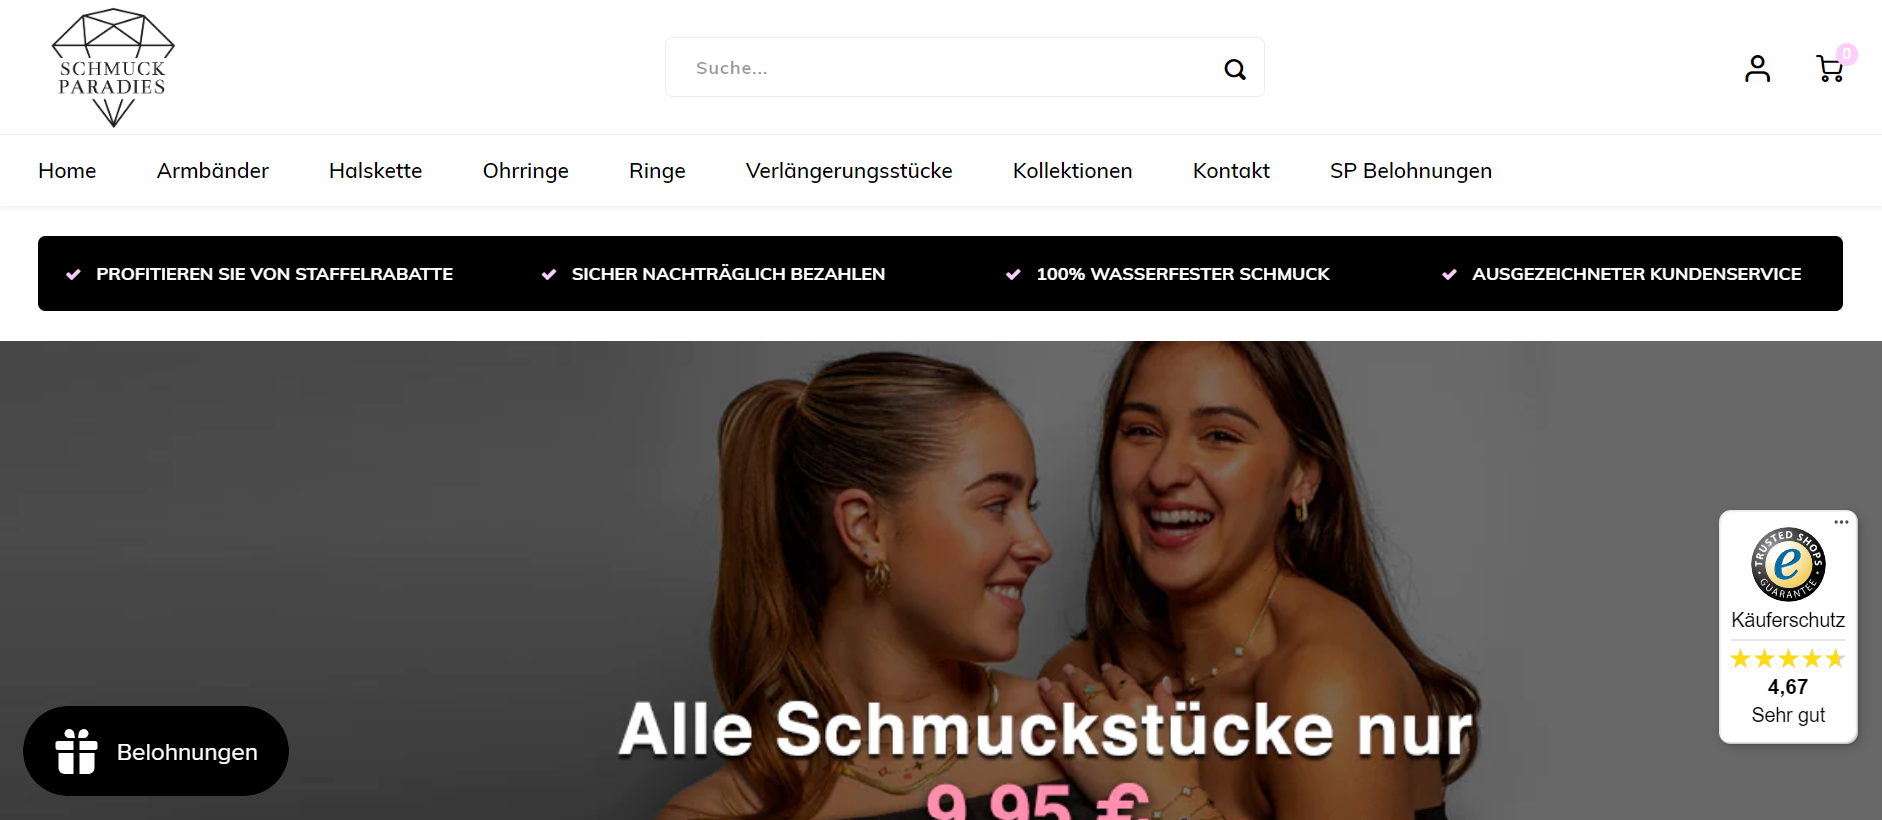
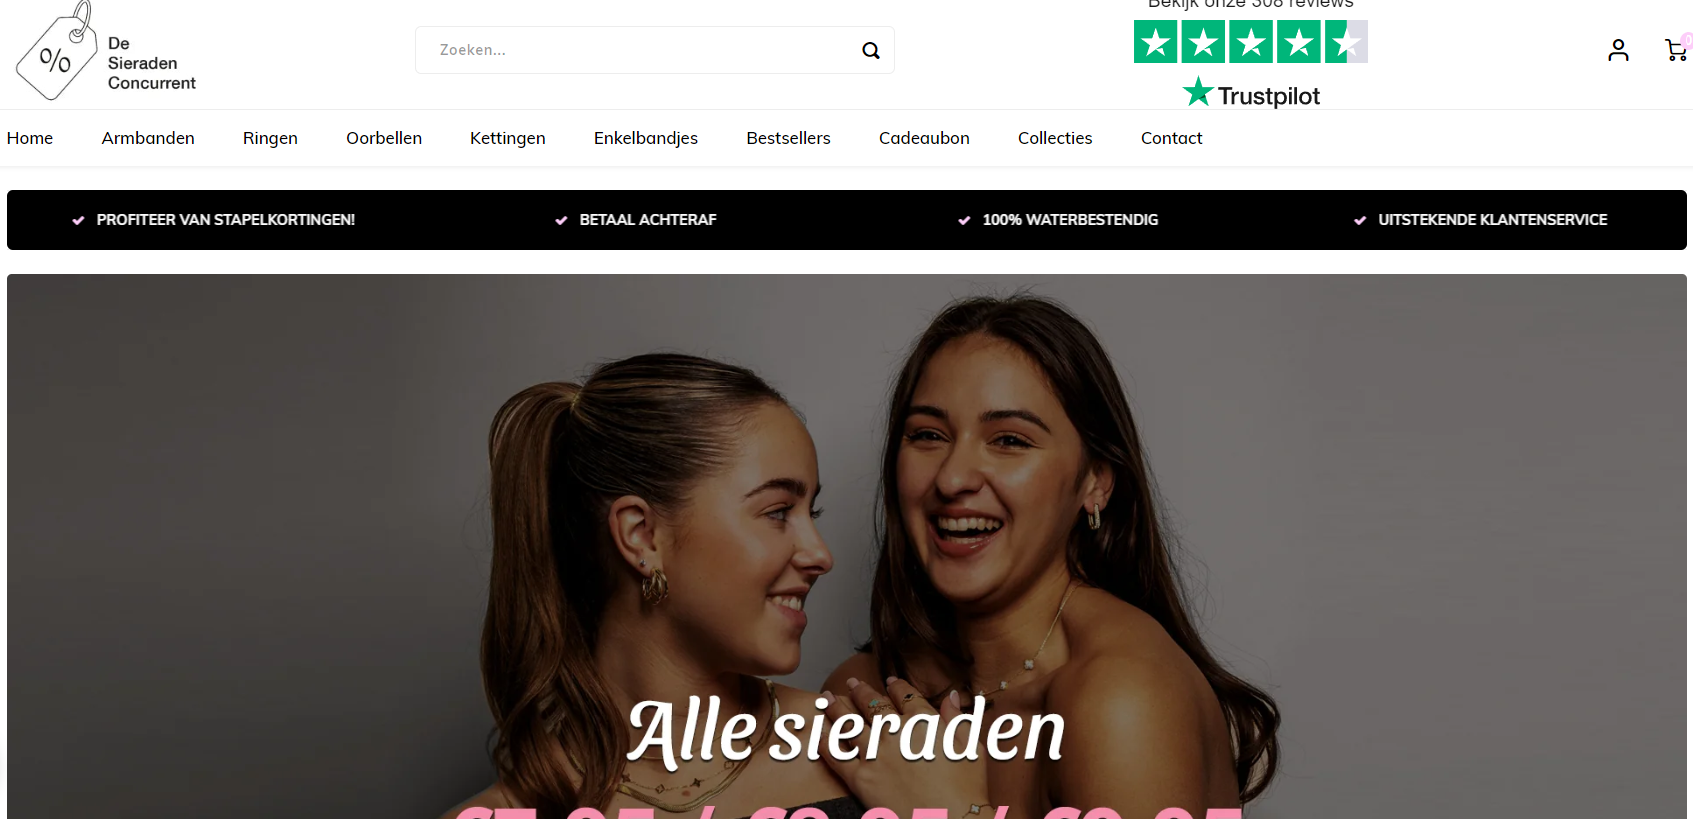
update jewelry

diff --git a/index.html b/index.html
@@ -106,7 +106,7 @@
                         </svg>
                     </div>
                     <div class="home_data">
-                        <h1 class="home_title">Hi, I am George</h1>
+                        <h1 class="home_title">Alam<br/>George</h1>
                         <h2 class="home_subtitle">Web Developer</h2>
                         <p class="home_description">Bachelor Degree in Information Technology.</p>
                         <a href="#project" class="button button--flex">
@@ -587,9 +587,9 @@
                                             <img src="img/jewelry1.png" alt="" class="portfolio_img">
                                             
                                             <div class="portfolio_data">
-                                                <h3 class="portfolio_title">German Jewelry Webshop</h3>
+                                                <h3 class="portfolio_title">Dutch Jewelry Webshop</h3>
                                                 <p class="portfolio_description">Shopify jewelry webshop with a various modern products design that fits on both men and women.</p>
-                                                <a href="https://dasschmuckparadies.de/" class="button button--flex button--small portfolio_button" target="_blank">
+                                                <a href="https://desieradenconcurrent.nl" class="button button--flex button--small portfolio_button" target="_blank">
                                                     Open Project
                                                     <i class="uil uil-arrow-right button_icon"></i>
                                                 </a>
